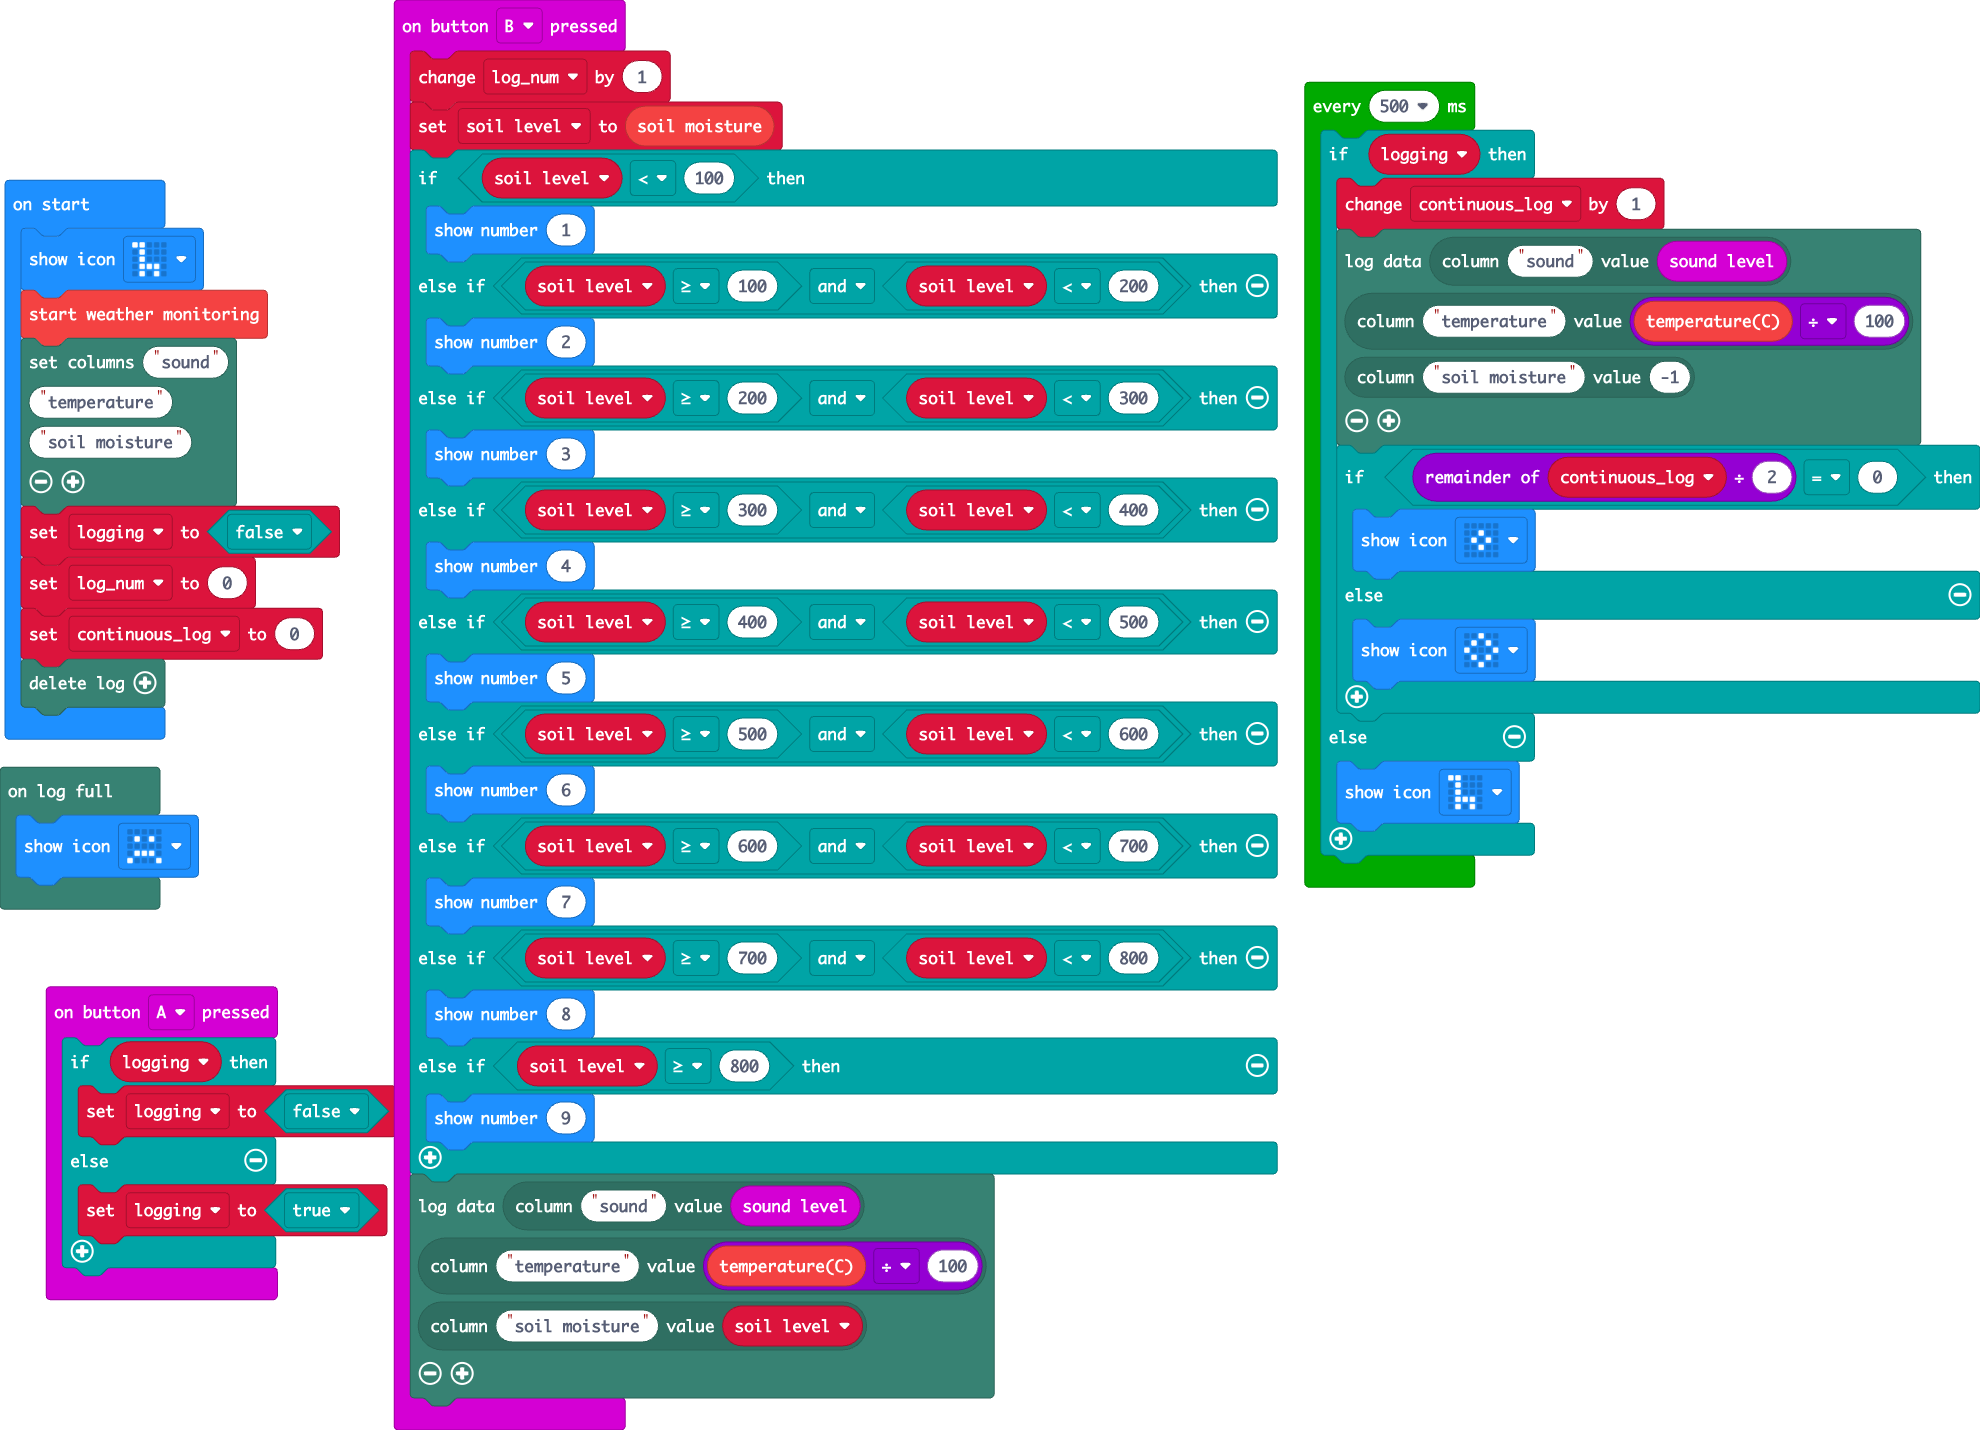
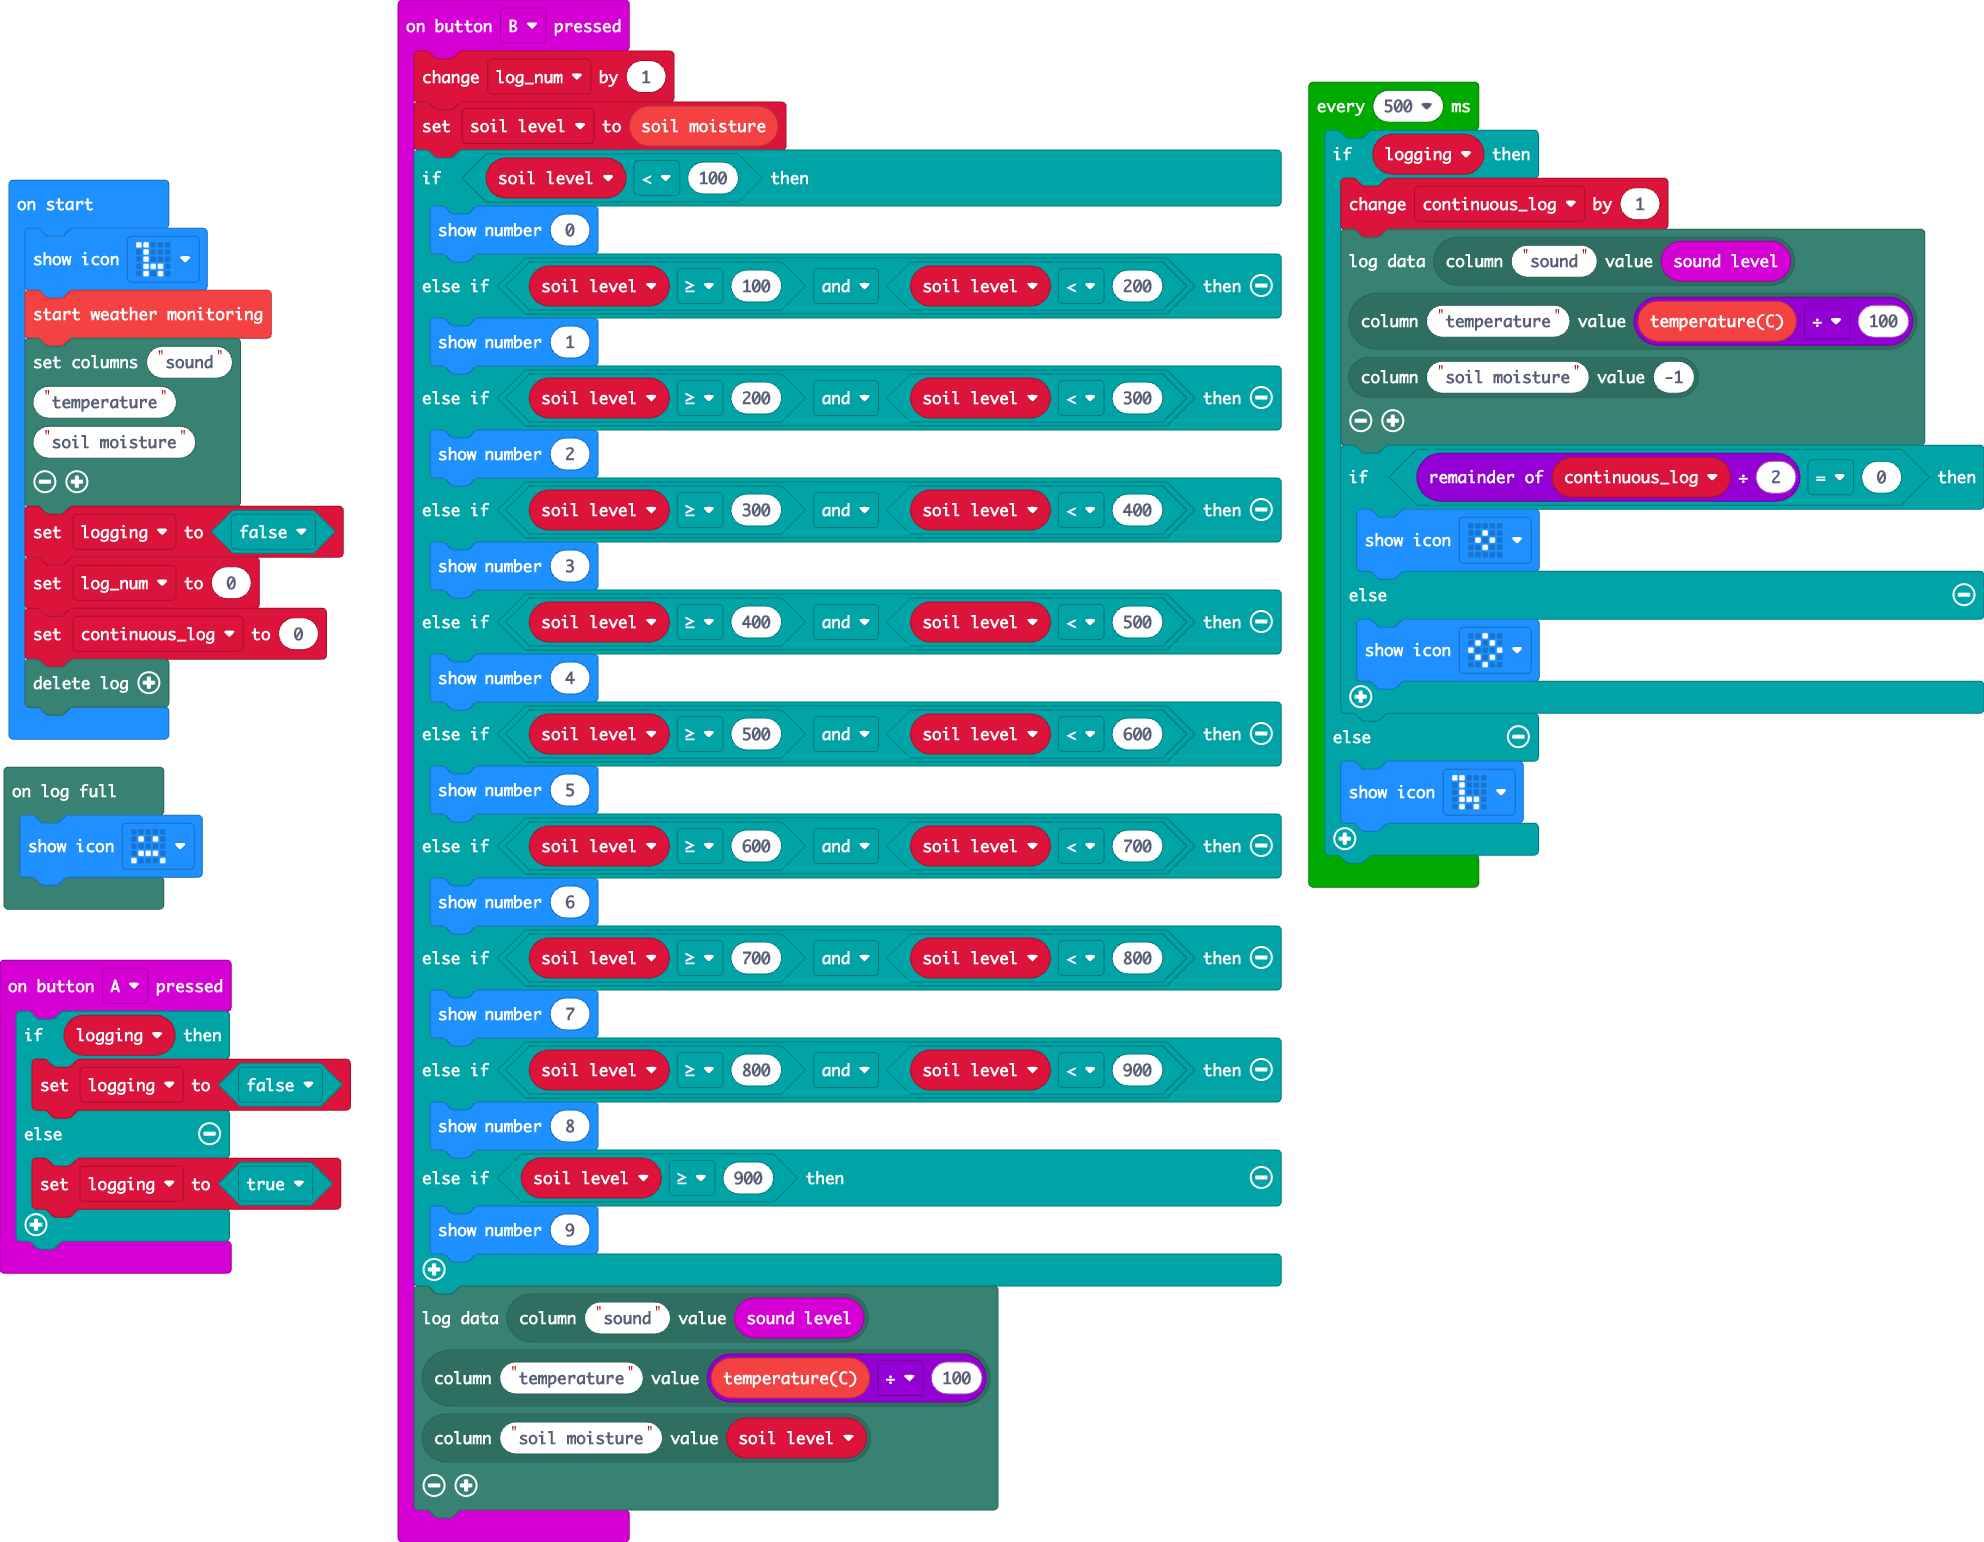
udated soil to 0 to 9

diff --git a/main.ts b/main.ts
@@ -12,22 +12,24 @@ input.onButtonPressed(Button.B, function () {
     log_num += 1
     soil_level = weatherbit.soilMoisture()
     if (soil_level < 100) {
-        basic.showNumber(1)
+        basic.showNumber(0)
     } else if (soil_level >= 100 && soil_level < 200) {
-        basic.showNumber(2)
+        basic.showNumber(1)
     } else if (soil_level >= 200 && soil_level < 300) {
-        basic.showNumber(3)
+        basic.showNumber(2)
     } else if (soil_level >= 300 && soil_level < 400) {
-        basic.showNumber(4)
+        basic.showNumber(3)
     } else if (soil_level >= 400 && soil_level < 500) {
-        basic.showNumber(5)
+        basic.showNumber(4)
     } else if (soil_level >= 500 && soil_level < 600) {
-        basic.showNumber(6)
+        basic.showNumber(5)
     } else if (soil_level >= 600 && soil_level < 700) {
-        basic.showNumber(7)
+        basic.showNumber(6)
     } else if (soil_level >= 700 && soil_level < 800) {
+        basic.showNumber(7)
+    } else if (soil_level >= 800 && soil_level < 900) {
         basic.showNumber(8)
-    } else if (soil_level >= 800) {
+    } else if (soil_level >= 900) {
         basic.showNumber(9)
     }
     datalogger.log(
